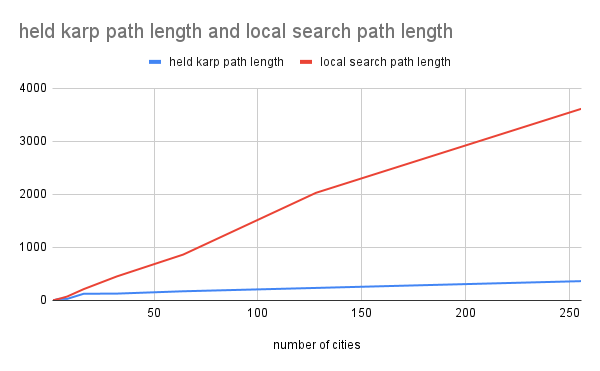
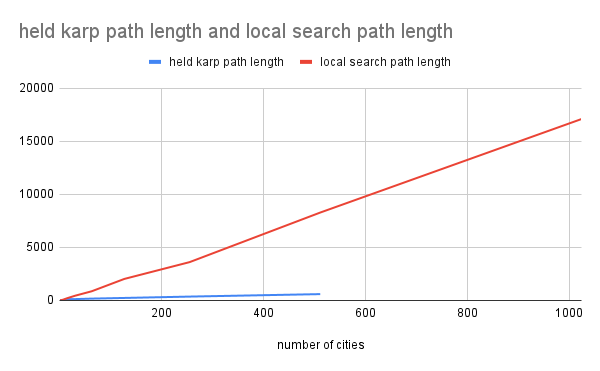
updated graphs and added code for larger inputs

diff --git a/test-large.js b/test-large.js
@@ -1,0 +1,52 @@
+const readline = require('node:readline');
+const fs = require('fs');
+const { performance } = require('perf_hooks');
+
+eval(fs.readFileSync('hk.js')+'');
+eval(fs.readFileSync('ls.js')+'');
+
+const N = 1024;
+
+
+var DM = randDM(N);
+
+function testhk(dm) {
+  const s = performance.now()
+  var pl = tsp_hk(dm);
+  const e = performance.now();
+  const t = e - s;
+
+  return [t, pl];
+}
+
+function testls(dm) {
+  const s = performance.now();
+  var pl = tsp_ls(dm);
+  const e = performance.now();
+  const t = e - s;
+
+  return [t, pl];
+}
+
+function randDM(n, max = 50) {
+  return Array.from({ length: n }, () =>
+    Array.from({ length: n }, () =>
+      Math.floor(Math.random() * max) + 1
+    )
+  );
+}
+
+var data = testhk(DM);
+
+console.log("Cities:");
+console.log(N);
+
+console.log("time in ms:");
+console.log(data[0]);
+
+console.log("path len:");
+console.log(data[1]);
+
+
+
+
